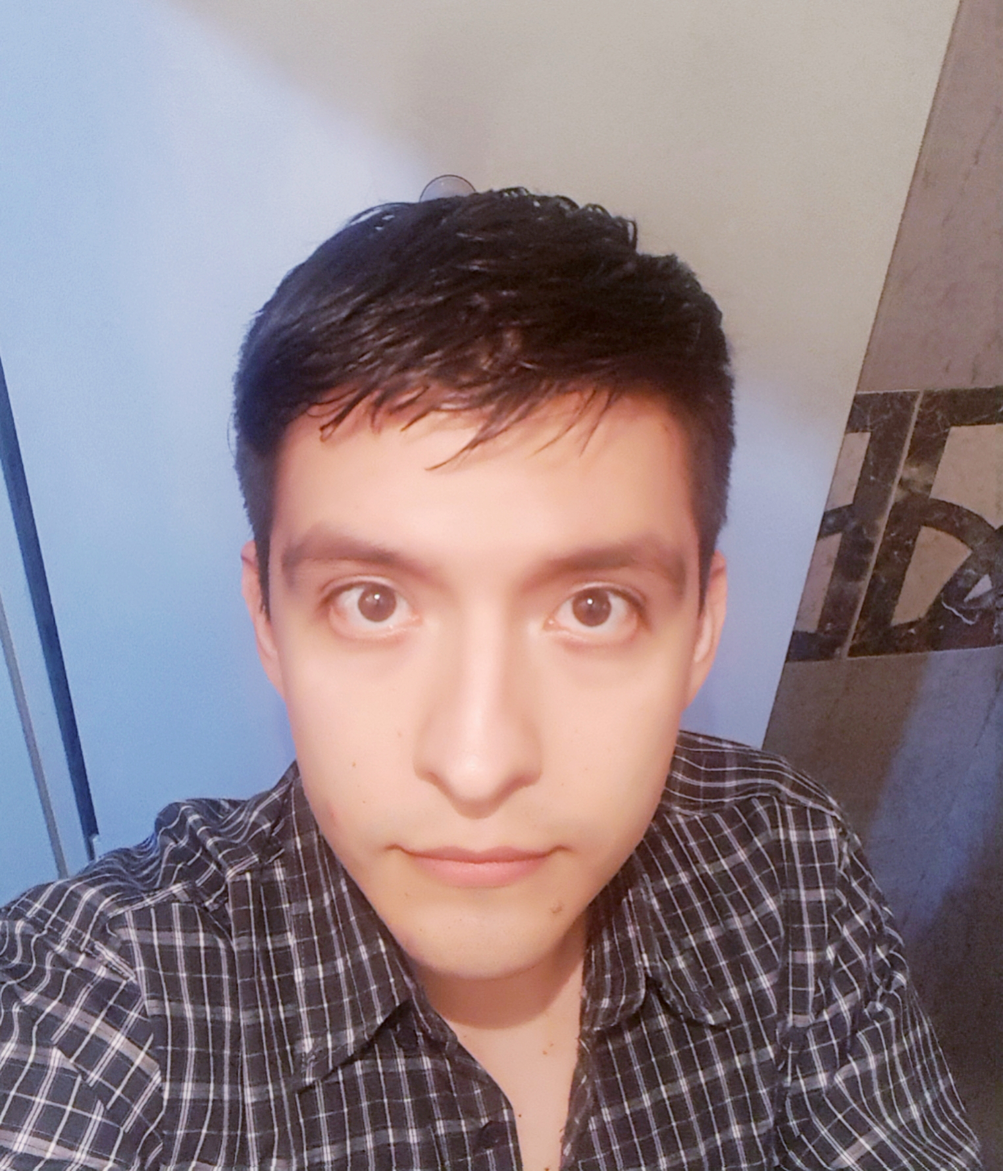
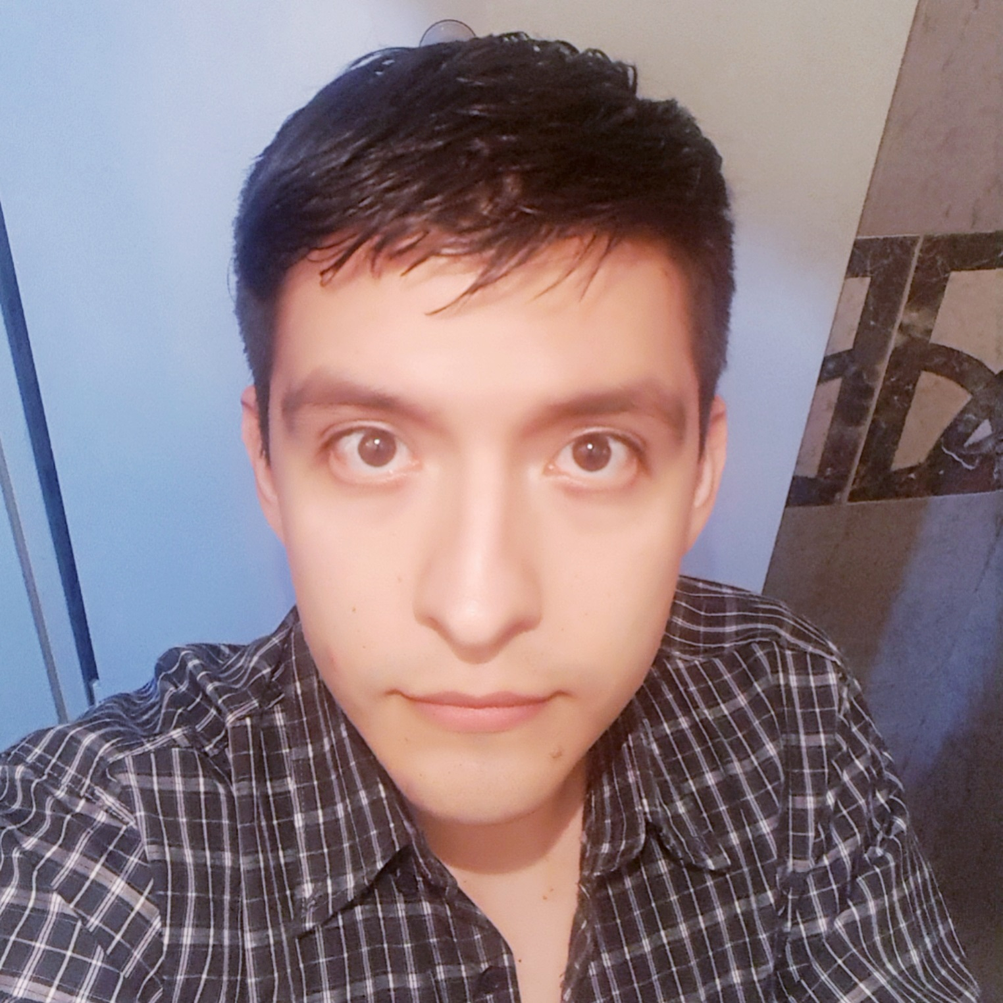
se agrego foto de perfil

diff --git a/src/components/FotoFullName.js b/src/components/FotoFullName.js
@@ -5,11 +5,11 @@ export default function FotoFullName() {
                   
             <div className='marco2'>
                 <div className='contenedorFoto'>
-                    <img src='../multimedia/perfil.jpg'></img>
+                    <img src='https://github.com/jcsamgit/presentacion/blob/master/src/multimedia/perfil.jpg?raw=true'></img>
                 </div>
                 <div className='fullName'>
                     <p>Julio Gerald</p>
-                    <p>Castañeira</p>
+                    <p>Castañeira Vargas</p>
                 </div>
                 
             </div>

diff --git a/src/CSS/main.css b/src/CSS/main.css
@@ -3,6 +3,11 @@ a{
     color: rgb(120,238,255);
     margin-left: 7px;
 }
+.contenedorFoto img{
+    height: 100%;
+    width: 100%;
+    border-radius: 50%;
+}
 
 @media only screen and (max-width:550px){
     .decorativo{
